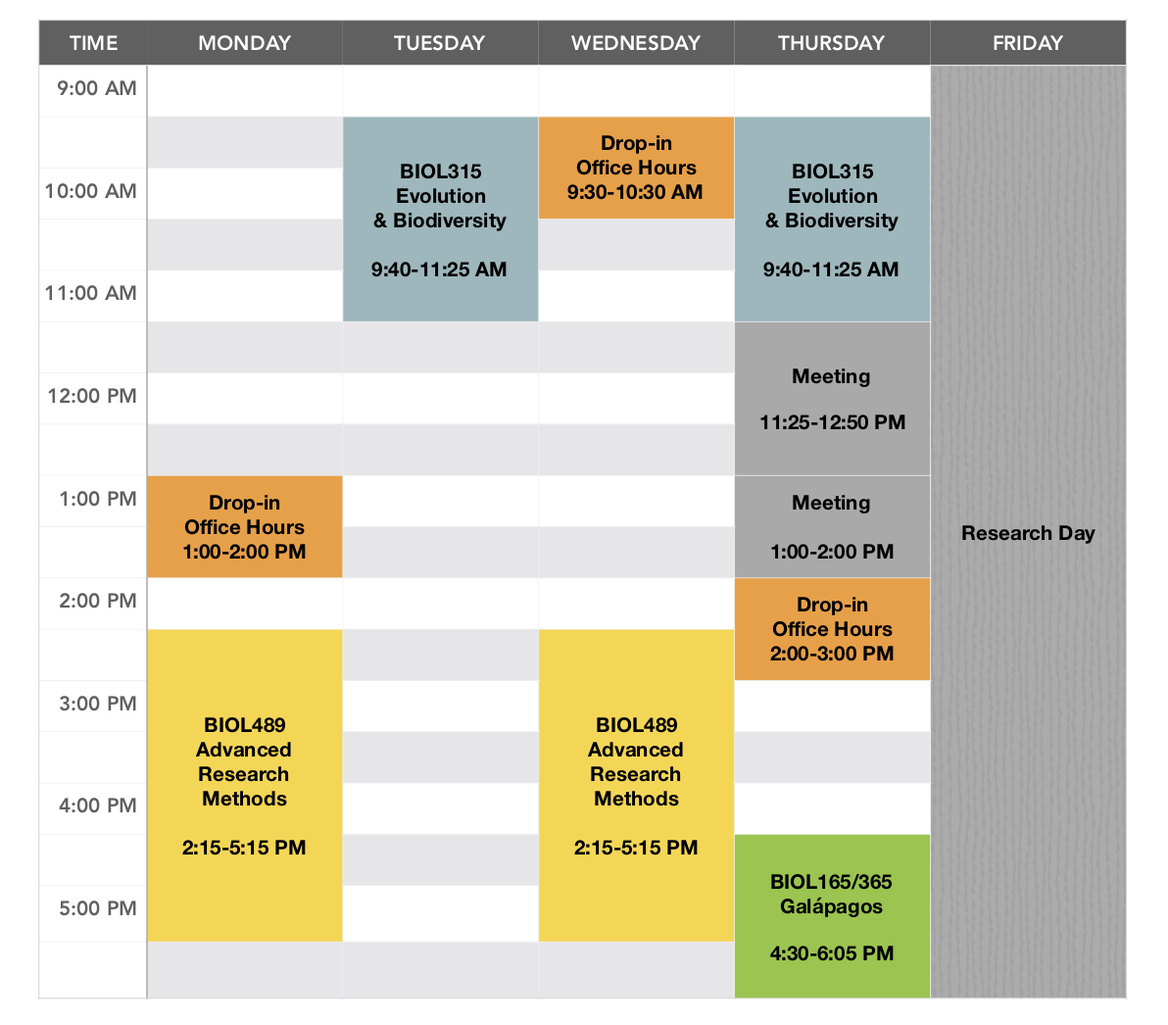
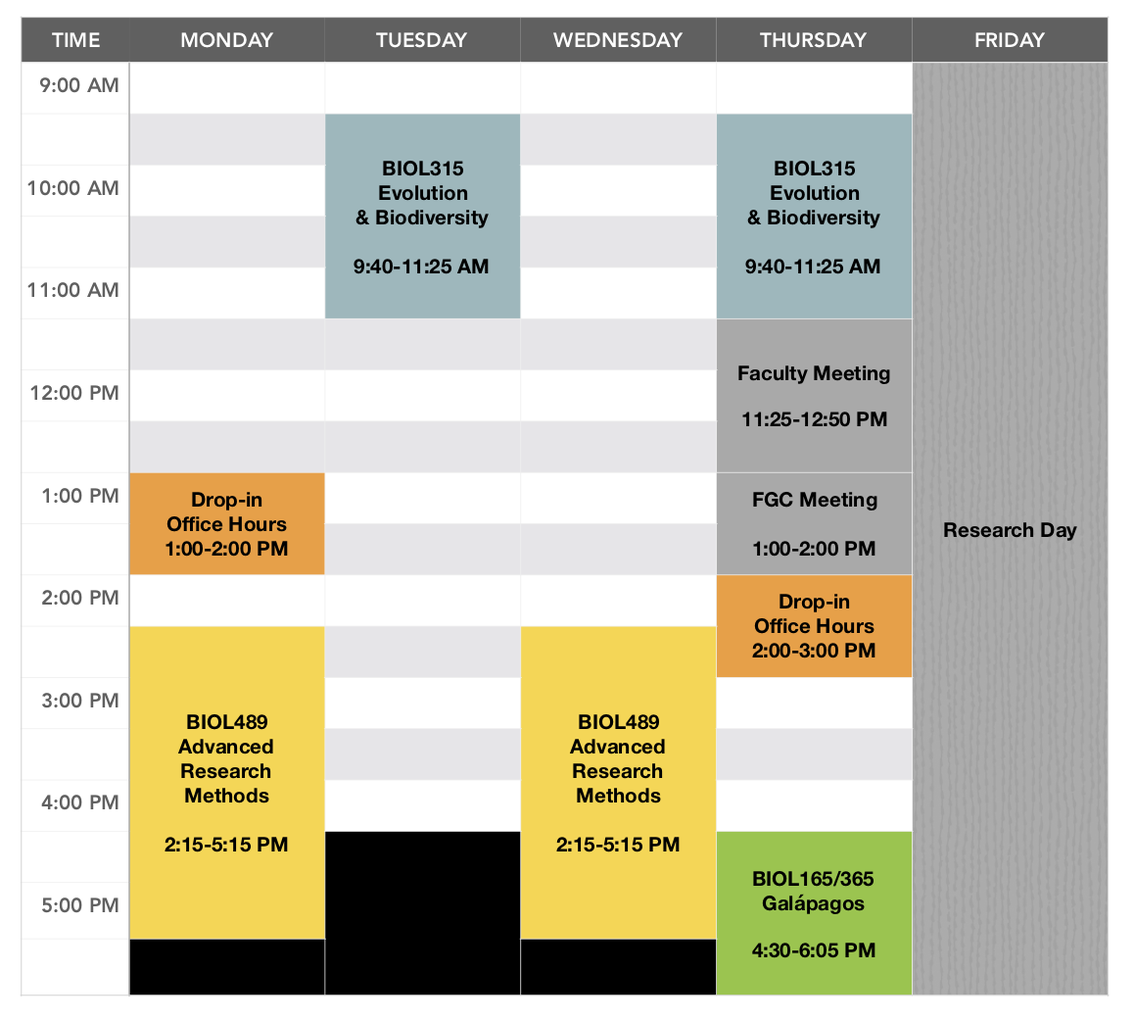
update schedule

diff --git a/notebook/sarah_wenners_data/Main Notebook.html b/notebook/sarah_wenners_data/Main Notebook.html
@@ -23,7 +23,7 @@
       <style> .text-cell {font-size: 15px;}.code-cell {font-size: 12px;}.markdown-cell {font-size: 15px;}.markdown-cell code{background-color: "red";}.latex-cell {font-size: 15px;}</style>
     </head>
     <body>
-      <div id="nav"><div>Previous: <a href='Associated files.html'>Associated files</a>, Up: <a href='index.html'>Index</a></div></div>
+      
       <div id="titlearea">
         <h2>Main Notebook</h2>
       </div>
@@ -65,10 +65,58 @@
 </div><div class="ace_line"><span class="ace_gutter ace_gutter-cell" unselectable="on"></span><span class="ace_keyword">do</span> 
 </div><div class="ace_line"><span class="ace_gutter ace_gutter-cell" unselectable="on"></span>  <span class="ace_identifier">clone_filter</span> <span class="ace_keyword ace_operator">-</span><span class="ace_identifier">P</span> <span class="ace_keyword ace_operator">-</span><span class="ace_constant ace_numeric">1</span> .<span class="ace_keyword ace_operator">/</span><span class="ace_identifier">L006_processed</span><span class="ace_keyword ace_operator">/</span><span class="ace_variable">$line</span><span class="ace_constant ace_numeric">.1</span>.<span class="ace_identifier">fq</span>.<span class="ace_identifier">gz</span> <span class="ace_keyword ace_operator">-</span><span class="ace_constant ace_numeric">2</span> .<span class="ace_keyword ace_operator">/</span><span class="ace_identifier">L006_processed</span><span class="ace_keyword ace_operator">/</span><span class="ace_variable">$line</span><span class="ace_constant ace_numeric">.2</span>.<span class="ace_identifier">fq</span>.<span class="ace_identifier">gz</span> <span class="ace_keyword ace_operator">-</span><span class="ace_identifier">i</span> <span class="ace_identifier">gzfastq</span> <span class="ace_keyword ace_operator">-</span><span class="ace_identifier">o</span> .<span class="ace_keyword ace_operator">/</span><span class="ace_identifier">PHCO_clone_filtered</span><span class="ace_keyword ace_operator">/</span> <span class="ace_keyword ace_operator">-</span><span class="ace_identifier">D</span> <span class="ace_keyword ace_operator">&amp;&gt;</span> .<span class="ace_keyword ace_operator">/</span><span class="ace_identifier">PHCO_clone_filtered</span><span class="ace_keyword ace_operator">/</span><span class="ace_variable">$line</span>.<span class="ace_identifier">clonefil</span>.<span class="ace_identifier">oe</span>
 </div><div class="ace_line"><span class="ace_gutter ace_gutter-cell" unselectable="on"></span><span class="ace_keyword">done</span><span class="ace_punctuation ace_operator">;</span>
-</div></div></div></div><div class="cell markdown-cell"></div><div class="cell markdown-cell"></div></div>
-      <script>document.body.onkeyup = function(e) {
-if (e.keyCode === 37) window.location.href = 'Associated files.html';
-}</script>
+</div></div></div></div><div class="cell markdown-cell"><h2>August 22, 2019</h2>
+<p>Clean up names in among clone filtered files.</p>
+<pre><div class="ace-tomorrow"><div class="ace_static_highlight ace_show_gutter" style="counter-reset:ace_line 0"><div class="ace_line"><span class="ace_gutter ace_gutter-cell" unselectable="on"></span><span class="ace_keyword">for</span> <span class="ace_identifier">filename</span> <span class="ace_keyword">in</span> <span class="ace_keyword ace_operator">*</span><span class="ace_punctuation ace_operator">;</span> <span class="ace_keyword">do</span> <span class="ace_identifier">mv</span> <span class="ace_variable">$filename</span> <span class="ace_variable">$</span><span class="ace_paren ace_lparen">{</span><span class="ace_variable">filename</span><span class="ace_keyword ace_operator">//</span><span class="ace_constant ace_numeric">.1.1</span>.<span class="ace_keyword ace_operator">/</span><span class="ace_constant ace_numeric">.1</span>.<span class="ace_paren ace_rparen">}</span><span class="ace_punctuation ace_operator">;</span> <span class="ace_keyword">done</span>
+</div></div></div></pre>
+<p>and</p>
+<pre><div class="ace-tomorrow"><div class="ace_static_highlight ace_show_gutter" style="counter-reset:ace_line 0"><div class="ace_line"><span class="ace_gutter ace_gutter-cell" unselectable="on"></span><span class="ace_keyword">for</span> <span class="ace_identifier">filename</span> <span class="ace_keyword">in</span> <span class="ace_keyword ace_operator">*</span><span class="ace_punctuation ace_operator">;</span> <span class="ace_keyword">do</span> <span class="ace_identifier">mv</span> <span class="ace_variable">$filename</span> <span class="ace_variable">$</span><span class="ace_paren ace_lparen">{</span><span class="ace_variable">filename</span><span class="ace_keyword ace_operator">//</span><span class="ace_constant ace_numeric">.2.2</span>.<span class="ace_keyword ace_operator">/</span><span class="ace_constant ace_numeric">.2</span>.<span class="ace_paren ace_rparen">}</span><span class="ace_punctuation ace_operator">;</span> <span class="ace_keyword">done</span>
+</div></div></div></pre>
+<p>Ran test on them using following script (<code>test_param_stacks.sh</code>) and set of 12 taxa. Taxa are:</p>
+<pre><div class="ace-tomorrow"><div class="ace_static_highlight ace_show_gutter" style="counter-reset:ace_line 0"><div class="ace_line"><span class="ace_gutter ace_gutter-cell" unselectable="on"></span>PHCO_007    TOP
+</div><div class="ace_line"><span class="ace_gutter ace_gutter-cell" unselectable="on"></span>PHCO_120    VER
+</div><div class="ace_line"><span class="ace_gutter ace_gutter-cell" unselectable="on"></span>PHCO_429    SIM
+</div><div class="ace_line"><span class="ace_gutter ace_gutter-cell" unselectable="on"></span>PHBL_134    SGM
+</div><div class="ace_line"><span class="ace_gutter ace_gutter-cell" unselectable="on"></span>PHBL_407    PIR
+</div><div class="ace_line"><span class="ace_gutter ace_gutter-cell" unselectable="on"></span>PHCO_421    MUG
+</div><div class="ace_line"><span class="ace_gutter ace_gutter-cell" unselectable="on"></span>PHCO_448    LIB
+</div><div class="ace_line"><span class="ace_gutter ace_gutter-cell" unselectable="on"></span>PHBL_129    LAX
+</div><div class="ace_line"><span class="ace_gutter ace_gutter-cell" unselectable="on"></span>PHCO_471    HCC
+</div><div class="ace_line"><span class="ace_gutter ace_gutter-cell" unselectable="on"></span>PHCO_066    GRI
+</div><div class="ace_line"><span class="ace_gutter ace_gutter-cell" unselectable="on"></span>PHCO_136    FRA
+</div></div></div></pre>
+<pre><div class="ace-tomorrow"><div class="ace_static_highlight ace_show_gutter" style="counter-reset:ace_line 0"><div class="ace_line"><span class="ace_gutter ace_gutter-cell" unselectable="on"></span><span class="ace_variable">popmap=</span>.<span class="ace_keyword ace_operator">/</span><span class="ace_identifier">test_group</span>.<span class="ace_identifier">txt</span>
+</div><div class="ace_line"><span class="ace_gutter ace_gutter-cell" unselectable="on"></span><span class="ace_variable">reads_dir=</span>..<span class="ace_keyword ace_operator">/</span><span class="ace_identifier">PHCO_clone_filtered</span>
+</div><div class="ace_line"><span class="ace_gutter ace_gutter-cell" unselectable="on"></span>
+</div><div class="ace_line"><span class="ace_gutter ace_gutter-cell" unselectable="on"></span><span class="ace_keyword">for</span> <span class="ace_paren ace_lparen">((</span><span class="ace_variable">M=</span><span class="ace_constant ace_numeric">1</span><span class="ace_punctuation ace_operator">;</span> <span class="ace_identifier">M</span> <span class="ace_keyword ace_operator">&lt;</span> <span class="ace_constant ace_numeric">8</span><span class="ace_punctuation ace_operator">;</span> <span class="ace_identifier">M</span><span class="ace_keyword ace_operator">++</span><span class="ace_paren ace_rparen">))</span>
+</div><div class="ace_line"><span class="ace_gutter ace_gutter-cell" unselectable="on"></span><span class="ace_keyword">do</span>
+</div><div class="ace_line"><span class="ace_gutter ace_gutter-cell" unselectable="on"></span>    <span class="ace_identifier">mkdir</span> <span class="ace_identifier">stacks</span>.<span class="ace_identifier">M</span><span class="ace_variable">$M</span><span class="ace_punctuation ace_operator">;</span>
+</div><div class="ace_line"><span class="ace_gutter ace_gutter-cell" unselectable="on"></span>    <span class="ace_variable">out_dir=</span><span class="ace_identifier">stacks</span>.<span class="ace_identifier">M</span><span class="ace_variable">$M</span><span class="ace_punctuation ace_operator">;</span>
+</div><div class="ace_line"><span class="ace_gutter ace_gutter-cell" unselectable="on"></span>    <span class="ace_variable">log_file=$out_dir</span><span class="ace_keyword ace_operator">/</span><span class="ace_identifier">denovo_map</span>.<span class="ace_identifier">oe</span><span class="ace_punctuation ace_operator">;</span>
+</div><div class="ace_line"><span class="ace_gutter ace_gutter-cell" unselectable="on"></span>    <span class="ace_identifier">denovo_map</span>.<span class="ace_identifier">pl</span> <span class="ace_keyword ace_operator">--</span><span class="ace_identifier">samples</span> <span class="ace_variable">$reads_dir</span> <span class="ace_keyword ace_operator">--</span><span class="ace_identifier">popmap</span> <span class="ace_variable">$popmap</span> <span class="ace_keyword ace_operator">-</span><span class="ace_identifier">o</span> <span class="ace_variable">$out_dir</span> <span class="ace_keyword ace_operator">-</span><span class="ace_identifier">M</span> <span class="ace_variable">$M</span> <span class="ace_keyword ace_operator">-</span><span class="ace_identifier">n</span> <span class="ace_variable">$M</span> <span class="ace_keyword ace_operator">-</span><span class="ace_identifier">m</span> <span class="ace_constant ace_numeric">3</span> <span class="ace_keyword ace_operator">-</span><span class="ace_identifier">T</span> <span class="ace_constant ace_numeric">20</span> <span class="ace_keyword ace_operator">&amp;&gt;</span> <span class="ace_variable">$log_file</span><span class="ace_punctuation ace_operator">;</span> 
+</div><div class="ace_line"><span class="ace_gutter ace_gutter-cell" unselectable="on"></span><span class="ace_keyword">done</span><span class="ace_punctuation ace_operator">;</span>
+</div></div></div></pre>
+<p>When they were finished, I ran <code>r80_filter.sh</code>:</p>
+<pre><div class="ace-tomorrow"><div class="ace_static_highlight ace_show_gutter" style="counter-reset:ace_line 0"><div class="ace_line"><span class="ace_gutter ace_gutter-cell" unselectable="on"></span><span class="ace_comment">#! /bin/bash</span>
+</div><div class="ace_line"><span class="ace_gutter ace_gutter-cell" unselectable="on"></span>
+</div><div class="ace_line"><span class="ace_gutter ace_gutter-cell" unselectable="on"></span><span class="ace_variable">dir_for_logs=</span><span class="ace_identifier">test_logs</span>
+</div><div class="ace_line"><span class="ace_gutter ace_gutter-cell" unselectable="on"></span><span class="ace_identifier">mkdir</span> <span class="ace_variable">$dir_for_logs</span>
+</div><div class="ace_line"><span class="ace_gutter ace_gutter-cell" unselectable="on"></span>
+</div><div class="ace_line"><span class="ace_gutter ace_gutter-cell" unselectable="on"></span><span class="ace_keyword">for</span> <span class="ace_paren ace_lparen">((</span><span class="ace_variable">M=</span><span class="ace_constant ace_numeric">1</span><span class="ace_punctuation ace_operator">;</span> <span class="ace_identifier">M</span> <span class="ace_keyword ace_operator">&lt;</span> <span class="ace_constant ace_numeric">8</span><span class="ace_punctuation ace_operator">;</span> <span class="ace_identifier">M</span><span class="ace_keyword ace_operator">++</span><span class="ace_paren ace_rparen">))</span>
+</div><div class="ace_line"><span class="ace_gutter ace_gutter-cell" unselectable="on"></span><span class="ace_keyword">do</span>
+</div><div class="ace_line"><span class="ace_gutter ace_gutter-cell" unselectable="on"></span><span class="ace_indent-guide">    </span>    <span class="ace_variable">stacks_dir=</span><span class="ace_identifier">stacks</span>.<span class="ace_identifier">M</span><span class="ace_variable">$M</span><span class="ace_punctuation ace_operator">;</span>
+</div><div class="ace_line"><span class="ace_gutter ace_gutter-cell" unselectable="on"></span><span class="ace_indent-guide">    </span>    <span class="ace_variable">out_dir=</span><span class="ace_string ace_start">'</span><span class="ace_string">stacks.M</span><span class="ace_string ace_end">'</span><span class="ace_variable">$M</span><span class="ace_string ace_start">'</span><span class="ace_string">/M</span><span class="ace_string ace_end">'</span><span class="ace_variable">$M</span><span class="ace_string ace_start">'</span><span class="ace_string">populations.R80</span><span class="ace_string ace_end">'</span><span class="ace_punctuation ace_operator">;</span>
+</div><div class="ace_line"><span class="ace_gutter ace_gutter-cell" unselectable="on"></span><span class="ace_indent-guide">    </span>    <span class="ace_variable">log_file=$out_dir</span><span class="ace_string ace_start">'</span><span class="ace_string">/populations.oe</span><span class="ace_string ace_end">'</span><span class="ace_punctuation ace_operator">;</span>
+</div><div class="ace_line"><span class="ace_gutter ace_gutter-cell" unselectable="on"></span>    <span class="ace_identifier">mkdir</span> <span class="ace_variable">$out_dir</span><span class="ace_punctuation ace_operator">;</span>
+</div><div class="ace_line"><span class="ace_gutter ace_gutter-cell" unselectable="on"></span>    <span class="ace_identifier">populations</span> <span class="ace_keyword ace_operator">-</span><span class="ace_identifier">P</span> <span class="ace_variable">$stacks_dir</span> <span class="ace_keyword ace_operator">-</span><span class="ace_identifier">O</span> <span class="ace_variable">$out_dir</span> <span class="ace_keyword ace_operator">-</span><span class="ace_identifier">R</span> <span class="ace_constant ace_numeric">0.80</span> <span class="ace_keyword ace_operator">&amp;&gt;</span> <span class="ace_variable">$log_file</span>
+</div><div class="ace_line"><span class="ace_gutter ace_gutter-cell" unselectable="on"></span>
+</div><div class="ace_line"><span class="ace_gutter ace_gutter-cell" unselectable="on"></span>    <span class="ace_comment"># Copy logs to a central place for analysis</span>
+</div><div class="ace_line"><span class="ace_gutter ace_gutter-cell" unselectable="on"></span><span class="ace_indent-guide">    </span>    <span class="ace_identifier">cp</span> <span class="ace_variable">$out_dir</span><span class="ace_keyword ace_operator">/</span><span class="ace_string ace_start">'</span><span class="ace_string">populations.log.distribs</span><span class="ace_string ace_end">'</span> <span class="ace_variable">$dir_for_logs</span><span class="ace_string ace_start">'</span><span class="ace_string">/M</span><span class="ace_string ace_end">'</span><span class="ace_variable">$M</span><span class="ace_string ace_start">'</span><span class="ace_string">_populations.log.distribs</span><span class="ace_string ace_end">'</span><span class="ace_punctuation ace_operator">;</span>
+</div><div class="ace_line"><span class="ace_gutter ace_gutter-cell" unselectable="on"></span><span class="ace_indent-guide">    </span>    <span class="ace_comment">#cp $out_dir/'populations.log' './test_log_files/M'$M'_populations.log';</span>
+</div><div class="ace_line"><span class="ace_gutter ace_gutter-cell" unselectable="on"></span><span class="ace_keyword">done</span><span class="ace_punctuation ace_operator">;</span>
+</div></div></div></pre>
+</div><div class="cell markdown-cell"></div></div>
+      <script></script>
     </body>
     </html>
   

diff --git a/notebook/microbes/MiSeq classification.html b/notebook/microbes/MiSeq classification.html
@@ -50,6 +50,23 @@ Reverse primer<br>
 </div><div class="ace_line"><span class="ace_gutter ace_gutter-cell" unselectable="on"></span><span class="ace_identifier">qiime</span> <span class="ace_identifier">feature</span><span class="ace_keyword ace_operator">-</span><span class="ace_identifier">classifier</span> <span class="ace_identifier">classify</span><span class="ace_keyword ace_operator">-</span><span class="ace_identifier">sklearn</span> <span class="ace_keyword ace_operator">--</span><span class="ace_identifier">i</span><span class="ace_keyword ace_operator">-</span><span class="ace_identifier">classifier</span> <span class="ace_identifier">classifier</span>.<span class="ace_identifier">qza</span> <span class="ace_keyword ace_operator">--</span><span class="ace_identifier">i</span><span class="ace_keyword ace_operator">-</span><span class="ace_identifier">reads</span> <span class="ace_identifier">rep</span><span class="ace_keyword ace_operator">-</span><span class="ace_identifier">seqs</span>.<span class="ace_identifier">qza</span> <span class="ace_keyword ace_operator">--</span><span class="ace_identifier">o</span><span class="ace_keyword ace_operator">-</span><span class="ace_identifier">classification</span> <span class="ace_identifier">taxonomy_p20</span>.<span class="ace_identifier">qza</span>
 </div><div class="ace_line"><span class="ace_gutter ace_gutter-cell" unselectable="on"></span>
 </div><div class="ace_line"><span class="ace_gutter ace_gutter-cell" unselectable="on"></span><span class="ace_comment">#qiime feature-classifier classify-sklearn --i-classifier classifier.qza --i-reads rep-seqs_janice.qza --o-classification taxonomy_janice.qza</span>
+</div></div></div></div><div class="cell markdown-cell"><h3>Troubleshooting</h3>
+<p>Ran: <code>qiime metadata tabulate --m-input-file taxonomy.qza --o-visualization taxonomy.qzv</code><br>
+Got Error:<br>
+<code>CategoricalMetadataColumn does not support strings with leading or trailing whitespace characters: 'D_0__Bacteria;D_1__Chloroflexi;D_2__Gitt-GS-136;D_3__uncultured bacterium ’</code></p>
+<p>See <a href="https://forum.qiime2.org/t/qiime-taxa-filter-table-error/3947">here</a> for solution (needs some edits for syntax).</p>
+<p><strong><em>Steps to solve problem</em></strong></p>
+</div><div class="cell code-cell"><div class="ace-tomorrow"><div class="ace_static_highlight ace_show_gutter" style="counter-reset:ace_line 0"><div class="ace_line"><span class="ace_gutter ace_gutter-cell" unselectable="on"></span><span class="ace_identifier">qiime</span> <span class="ace_identifier">tools</span> <span class="ace_keyword">export</span> <span class="ace_keyword ace_operator">--</span><span class="ace_identifier">input</span><span class="ace_keyword ace_operator">-</span><span class="ace_identifier">path</span> <span class="ace_identifier">taxonomy_p20</span>.<span class="ace_identifier">qza</span> <span class="ace_keyword ace_operator">--</span><span class="ace_identifier">output</span><span class="ace_keyword ace_operator">-</span><span class="ace_identifier">path</span> <span class="ace_identifier">tax_p20</span><span class="ace_keyword ace_operator">-</span><span class="ace_identifier">with</span><span class="ace_keyword ace_operator">-</span><span class="ace_identifier">spaces</span>
+</div><div class="ace_line"><span class="ace_gutter ace_gutter-cell" unselectable="on"></span>
+</div><div class="ace_line"><span class="ace_gutter ace_gutter-cell" unselectable="on"></span><span class="ace_identifier">qiime</span> <span class="ace_identifier">metadata</span> <span class="ace_identifier">tabulate</span> <span class="ace_keyword ace_operator">--</span><span class="ace_identifier">m</span><span class="ace_keyword ace_operator">-</span><span class="ace_identifier">input</span><span class="ace_keyword ace_operator">-</span><span class="ace_identifier">file</span> <span class="ace_identifier">tax_p20</span><span class="ace_keyword ace_operator">-</span><span class="ace_identifier">with</span><span class="ace_keyword ace_operator">-</span><span class="ace_identifier">spaces</span><span class="ace_keyword ace_operator">/</span><span class="ace_identifier">taxonomy</span>.<span class="ace_identifier">tsv</span> <span class="ace_keyword ace_operator">--</span><span class="ace_identifier">o</span><span class="ace_keyword ace_operator">-</span><span class="ace_identifier">visualization</span> <span class="ace_identifier">tax_p20_metadata</span>.<span class="ace_identifier">qzv</span>
+</div><div class="ace_line"><span class="ace_gutter ace_gutter-cell" unselectable="on"></span>
+</div><div class="ace_line"><span class="ace_gutter ace_gutter-cell" unselectable="on"></span><span class="ace_identifier">qiime</span> <span class="ace_identifier">tools</span> <span class="ace_keyword">export</span> <span class="ace_keyword ace_operator">--</span><span class="ace_identifier">input</span><span class="ace_keyword ace_operator">-</span><span class="ace_identifier">path</span> <span class="ace_identifier">tax_p20_metadata</span>.<span class="ace_identifier">qzv</span> <span class="ace_keyword ace_operator">--</span><span class="ace_identifier">output</span><span class="ace_keyword ace_operator">-</span><span class="ace_identifier">path</span> <span class="ace_identifier">tax_p20</span><span class="ace_keyword ace_operator">-</span><span class="ace_identifier">as</span><span class="ace_keyword ace_operator">-</span><span class="ace_identifier">metadata</span>
+</div><div class="ace_line"><span class="ace_gutter ace_gutter-cell" unselectable="on"></span>
+</div><div class="ace_line"><span class="ace_gutter ace_gutter-cell" unselectable="on"></span><span class="ace_identifier">qiime</span> <span class="ace_identifier">tools</span> <span class="ace_identifier">import</span> <span class="ace_keyword ace_operator">--</span><span class="ace_support ace_function ace_builtin">type</span> <span class="ace_string ace_start">'</span><span class="ace_string">FeatureData[Taxonomy]</span><span class="ace_string ace_end">'</span> <span class="ace_keyword ace_operator">--</span><span class="ace_identifier">input</span><span class="ace_keyword ace_operator">-</span><span class="ace_identifier">path</span> <span class="ace_identifier">tax_p20</span><span class="ace_keyword ace_operator">-</span><span class="ace_identifier">as</span><span class="ace_keyword ace_operator">-</span><span class="ace_identifier">metadata</span><span class="ace_keyword ace_operator">/</span><span class="ace_identifier">metadata</span>.<span class="ace_identifier">tsv</span> <span class="ace_keyword ace_operator">--</span><span class="ace_identifier">output</span><span class="ace_keyword ace_operator">-</span><span class="ace_identifier">path</span> <span class="ace_identifier">tax_p20</span><span class="ace_keyword ace_operator">-</span><span class="ace_identifier">without</span><span class="ace_keyword ace_operator">-</span><span class="ace_identifier">spaces</span>.<span class="ace_identifier">qza</span>
+</div></div></div></div><div class="cell markdown-cell"><p><strong><em>Then proceed</em></strong></p>
+</div><div class="cell code-cell"><div class="ace-tomorrow"><div class="ace_static_highlight ace_show_gutter" style="counter-reset:ace_line 0"><div class="ace_line"><span class="ace_gutter ace_gutter-cell" unselectable="on"></span><span class="ace_identifier">qiime</span> <span class="ace_identifier">metadata</span> <span class="ace_identifier">tabulate</span> <span class="ace_keyword ace_operator">--</span><span class="ace_identifier">m</span><span class="ace_keyword ace_operator">-</span><span class="ace_identifier">input</span><span class="ace_keyword ace_operator">-</span><span class="ace_identifier">file</span> <span class="ace_identifier">tax_p20</span><span class="ace_keyword ace_operator">-</span><span class="ace_identifier">without</span><span class="ace_keyword ace_operator">-</span><span class="ace_identifier">spaces</span>.<span class="ace_identifier">qza</span> <span class="ace_keyword ace_operator">--</span><span class="ace_identifier">o</span><span class="ace_keyword ace_operator">-</span><span class="ace_identifier">visualization</span> <span class="ace_identifier">tax_p20_final</span>.<span class="ace_identifier">qzv</span>
+</div><div class="ace_line"><span class="ace_gutter ace_gutter-cell" unselectable="on"></span>
+</div><div class="ace_line"><span class="ace_gutter ace_gutter-cell" unselectable="on"></span><span class="ace_identifier">qiime</span> <span class="ace_identifier">taxa</span> <span class="ace_identifier">barplot</span> <span class="ace_keyword ace_operator">--</span><span class="ace_identifier">i</span><span class="ace_keyword ace_operator">-</span><span class="ace_identifier">table</span> ..<span class="ace_keyword ace_operator">/</span><span class="ace_identifier">table</span>.<span class="ace_identifier">qza</span> <span class="ace_keyword ace_operator">--</span><span class="ace_identifier">i</span><span class="ace_keyword ace_operator">-</span><span class="ace_identifier">taxonomy</span> <span class="ace_identifier">tax_p20</span><span class="ace_keyword ace_operator">-</span><span class="ace_identifier">without</span><span class="ace_keyword ace_operator">-</span><span class="ace_identifier">spaces</span>.<span class="ace_identifier">qza</span> <span class="ace_keyword ace_operator">--</span><span class="ace_identifier">m</span><span class="ace_keyword ace_operator">-</span><span class="ace_identifier">metadata</span><span class="ace_keyword ace_operator">-</span><span class="ace_identifier">file</span> ..<span class="ace_keyword ace_operator">/</span><span class="ace_identifier">sample_metadata</span>.<span class="ace_identifier">tsv</span> <span class="ace_keyword ace_operator">--</span><span class="ace_identifier">o</span><span class="ace_keyword ace_operator">-</span><span class="ace_identifier">visualization</span> <span class="ace_identifier">taxa_p20</span><span class="ace_keyword ace_operator">-</span><span class="ace_identifier">barplots</span>.<span class="ace_identifier">qzv</span>
 </div></div></div></div><div class="cell markdown-cell"></div></div>
       <script></script>
     </body>

diff --git a/teaching.html b/teaching.html
@@ -28,8 +28,8 @@
 <h1>Fall 2019</h1>
     <h2>Office Hours</h2>
   	Strain 310<br />
-  	M 1-2 PM, W 9:30-10:30 AM, Th 2-3 PM<br />
-  	<a href="schedule.html">Lauren's Fall Schedule</a>
+  	M 1-2 PM, Th 2-3 PM, or email me to make an appt.<br />
+  	Check Lauren's <a href="schedule.html">schedule</a> for potential times.
 		<p>&nbsp</p>
 	<h2>Evolution and Biodiversity, BIOL315</h2>
 		Investigation of the evolutionary processes responsible for the origin and diversification of life on Earth. This course covers major concepts in evolutionary biology, including the origin of molecular variation, mechanisms of evolutionary change, patterns of speciation and extinction, and the diversity and evolutionary relationships of living organisms. <em>Note: This course may be substituted for either BIOL312/317 or BIOL313.</em>
